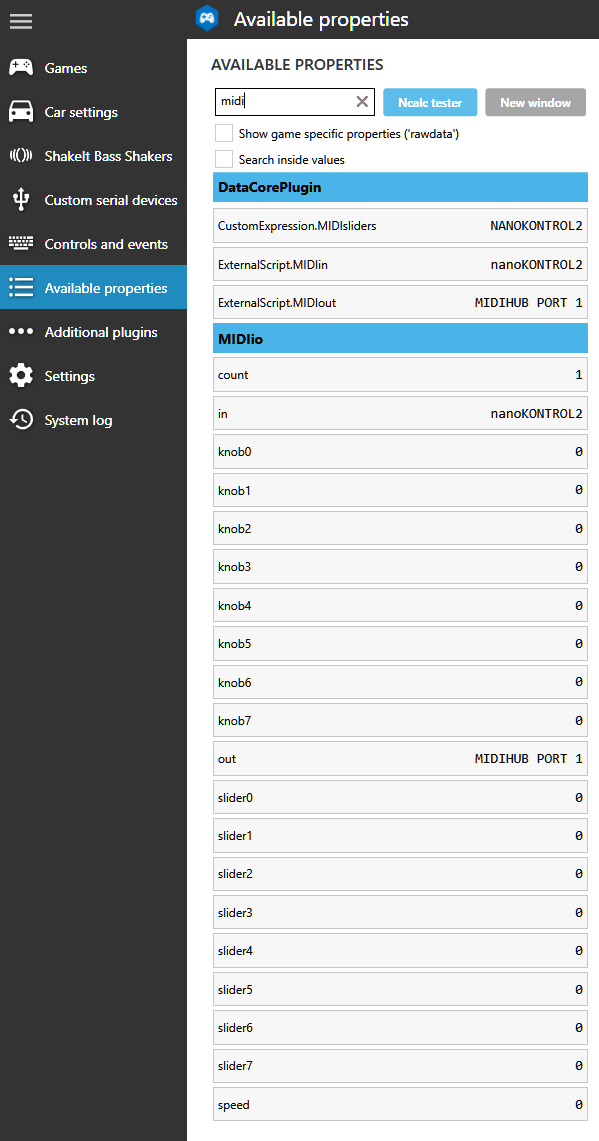
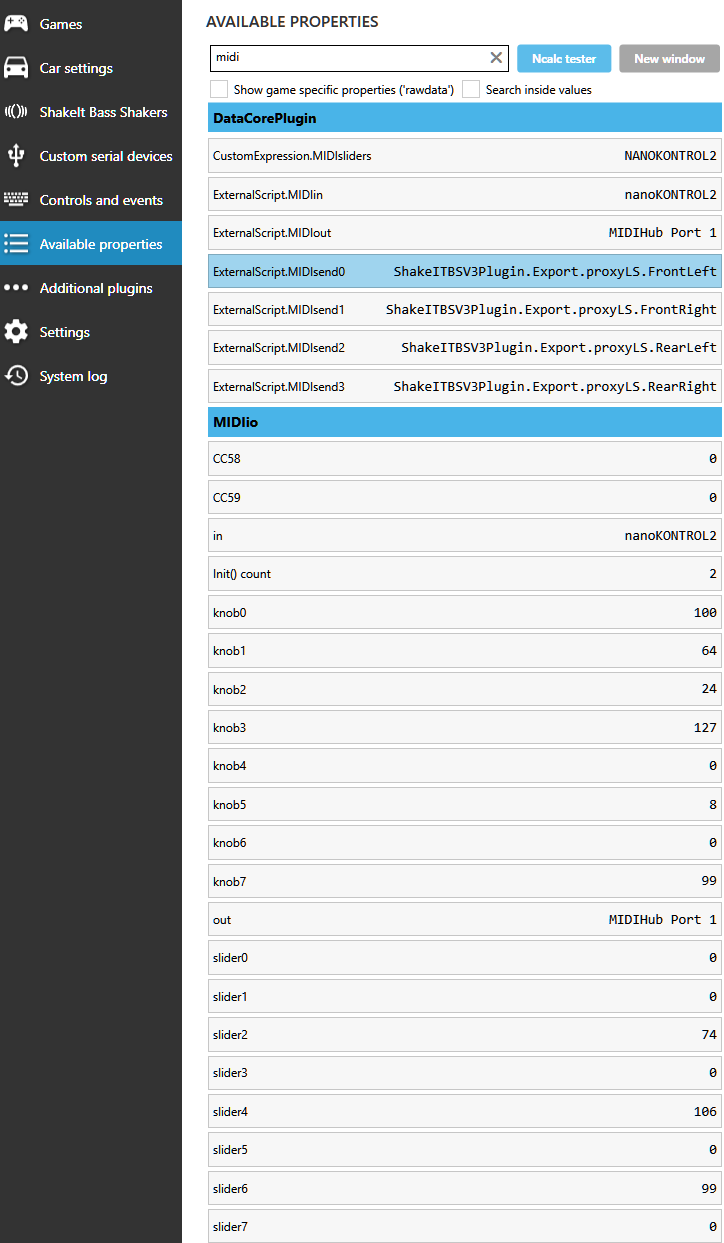
Working, except for picking up 8 send properties

Changed region(s): [[0.0, 0.0, 1.0, 1.0], [0.0902, 0.3681, 0.1202, 0.3988]]

diff --git a/MIDIio.cs b/MIDIio.cs
@@ -31,7 +31,8 @@ namespace blekenbleu.MIDIspace
         public void DataUpdate(PluginManager pluginManager, ref GameData data)
         {
             for (byte b = 0; b < 8; b++)
-                Outer.SendProp(b);
+                if (!Outer.SendProp(b))
+                    break;
             if (data.GameRunning && data.OldData != null && data.NewData != null)
             {
             }
@@ -59,34 +60,33 @@ namespace blekenbleu.MIDIspace
             // Load settings
             Settings = this.ReadCommonSettings<MIDIioSettings>("GeneralSettings", () => new MIDIioSettings());
 
-            // Declare a property available in the property list; this gets evaluated "on demand" (when shown or used in formulas)
-            object data = pluginManager.GetPropertyValue("DataCorePlugin.ExternalScript.MIDIin");
-            String input = (null == data) ? "unassigned" : data.ToString();
-            pluginManager.AddProperty("in", this.GetType(), input);
-            SimHub.Logging.Current.Info("MIDIio input device: " + input);
-
-            data = pluginManager.GetPropertyValue("DataCorePlugin.ExternalScript.MIDIin");
-            SimHub.Logging.Current.Info("MIDIio output device: " + input);
-            Reader = new INdrywet();
-            Reader.Init(input, Settings, this);
-
-            data = pluginManager.GetPropertyValue("DataCorePlugin.ExternalScript.MIDIout");
+            // Make properties available in the property list; these get evaluated "on demand" (when shown or used in formulas)
+            // open Outer before Reader, which tries to send stored MIDI CC messages
+            object data = pluginManager.GetPropertyValue("DataCorePlugin.ExternalScript.MIDIout");
             String output = (null == data) ? "unassigned" : data.ToString();
             pluginManager.AddProperty("out", this.GetType(), (null == data) ? "unassigned" : output);
+            SimHub.Logging.Current.Info("MIDIio output device: " + output);
             Outer = new OUTdrywet();
-            data = pluginManager.GetPropertyValue("DataCorePlugin.ExternalScript.MIDIsend");
+            string MIDIsend = "DataCorePlugin.ExternalScript.MIDIsend";
+            data = pluginManager.GetPropertyValue(MIDIsend);
             if (null == data)
             {
-                SimHub.Logging.Current.Info("MIDIio unassigned output data source property");
+                SimHub.Logging.Current.Info("MIDIio unassigned output data source property: " + MIDIsend);
                 Outer.SendName = null;
-                Outer.Init(output, Settings, this);
             }
             else
             {
-                Outer.SendName = data.ToString();
+                SimHub.Logging.Current.Info("MIDIio send property: " + (Outer.SendName = data.ToString()));
                 SimHub.Logging.Current.Info("MIDIio output device: " + output + " sending CC0-7 from: " + Outer.SendName + "0-7");
-                Outer.Init(output, Settings, this);
             }
+            Outer.Init(output, Settings, this);
+
+            data = pluginManager.GetPropertyValue("DataCorePlugin.ExternalScript.MIDIin");
+            String input = (null == data) ? "unassigned" : data.ToString();
+            pluginManager.AddProperty("in", this.GetType(), input);
+            SimHub.Logging.Current.Info("MIDIio input device: " + input);
+            Reader = new INdrywet();
+            Reader.Init(input, Settings, this);
 
             count += 1;		// increments for each Init(), provoked e.g. by game change or restart
             pluginManager.AddProperty("Init() count", this.GetType(), count);
@@ -100,25 +100,21 @@ namespace blekenbleu.MIDIspace
             // Declare actions which can be called
             this.AddAction("ping0",(a, b) =>
             {
-                SimHub.Logging.Current.Info("MIDIout0 pinged");
                 Outer.Ping((Melanchall.DryWetMidi.Common.SevenBitNumber)0);
             });
 
             this.AddAction("ping1", (a, b) =>
             {
-                SimHub.Logging.Current.Info("MIDIout1 pinged");
                 Outer.Ping((Melanchall.DryWetMidi.Common.SevenBitNumber)1);
             });
 
             this.AddAction("ping2", (a, b) =>
             {
-                SimHub.Logging.Current.Info("MIDIout2 pinged");
                 Outer.Ping((Melanchall.DryWetMidi.Common.SevenBitNumber)2);
             });
 
             this.AddAction("ping3", (a, b) =>
             {
-                SimHub.Logging.Current.Info("MIDIout3 pinged");
                 Outer.Ping((Melanchall.DryWetMidi.Common.SevenBitNumber)3);
             });
         }

diff --git a/OUTdrywet.cs b/OUTdrywet.cs
@@ -14,28 +14,30 @@ namespace blekenbleu.MIDIspace
         private static MIDIio M;    // needed for AttachDelegate(), AddEvent() and TriggerEvent()
         private static IOutputDevice _outputDevice;
         private static IOutputDevice OutputDevice { get => _outputDevice; set => _outputDevice = value; }
-        public ControlChangeEvent GetFoo;
         private bool Connected;
         private MIDIioSettings Settings;
         public String SendName;     // source property prefix 
         private String CCout;       // Output MIDI destination
 
-        public void SendCC(byte number, byte value)
-        {
-            GetFoo.ControlNumber = (SevenBitNumber)number;
-            GetFoo.ControlValue = (SevenBitNumber)value;
-            OutputDevice.SendEvent(GetFoo);
+        public void SendCC(byte control, byte value)
+        {   // wasted a day not finding this documented
+            OutputDevice.SendEvent(new ControlChangeEvent((SevenBitNumber)control, (SevenBitNumber)value));
         }
 
         private static byte val = 63;
-        public void Ping(SevenBitNumber num)
+        public bool Ping(SevenBitNumber num) // gets called (indirectly, event->action) by INdrywet()
         {
-            SendCC(num, val);
-            SimHub.Logging.Current.Info($"{CCout} CC{num} pinged {val}");
-            val = (byte)((63 == val) ? 127 : 63);
+            if (Connected) {
+                SendCC(num, val);
+                SimHub.Logging.Current.Info($"{CCout} CC{num} pinged {val}");
+                val = (byte)((63 == val) ? 127 : 63);
+                return true;
+            }
+            else SimHub.Logging.Current.Info($"{CCout} disabled");
+            return false;
         }
 
-        public void SendProp(byte i)
+        public bool SendProp(byte i)
         {
             if (Connected)
             {
@@ -45,18 +47,16 @@ namespace blekenbleu.MIDIspace
                 String input = data?.ToString();
                 if ((null != input) && Settings.Sent[i] != Convert.ToByte(input))
                     SendCC(0, Settings.Sent[i] = Convert.ToByte(input));
+                else return false;
+                return true;
             }
+            else return false;
         }
 
         public void Init(String MIDIout, MIDIioSettings savedSettings, MIDIio that )
         {
             M = that;
             CCout = MIDIout;
-            if (null == SendName)
-            {
-                Connected = false;  // missing data source
-                return;
-            }
             Connected = true;       // assume the best
             // Load settings
             Settings = savedSettings;
